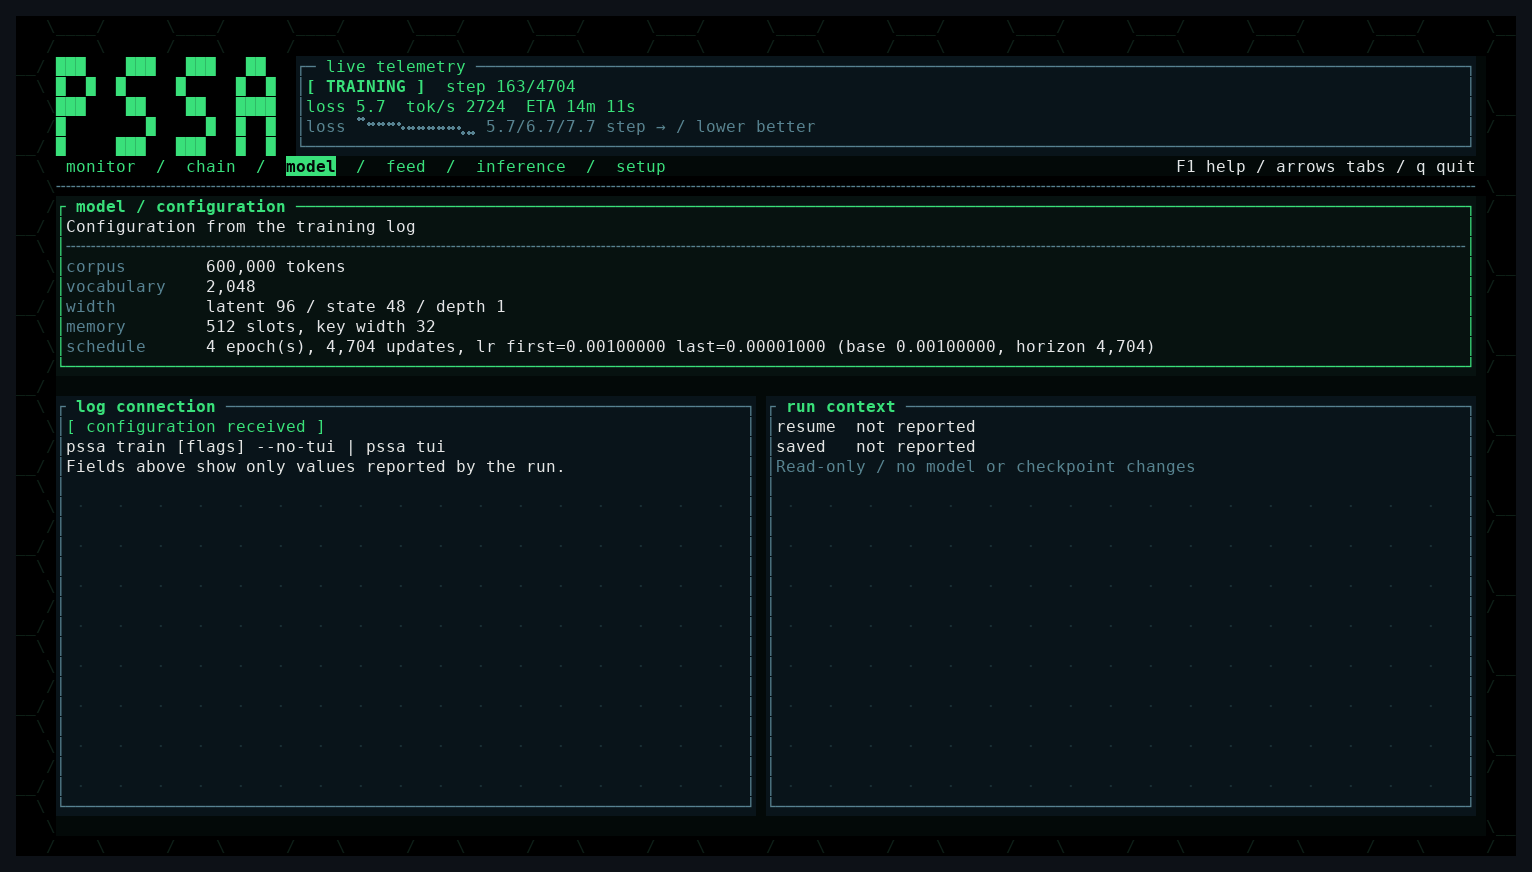
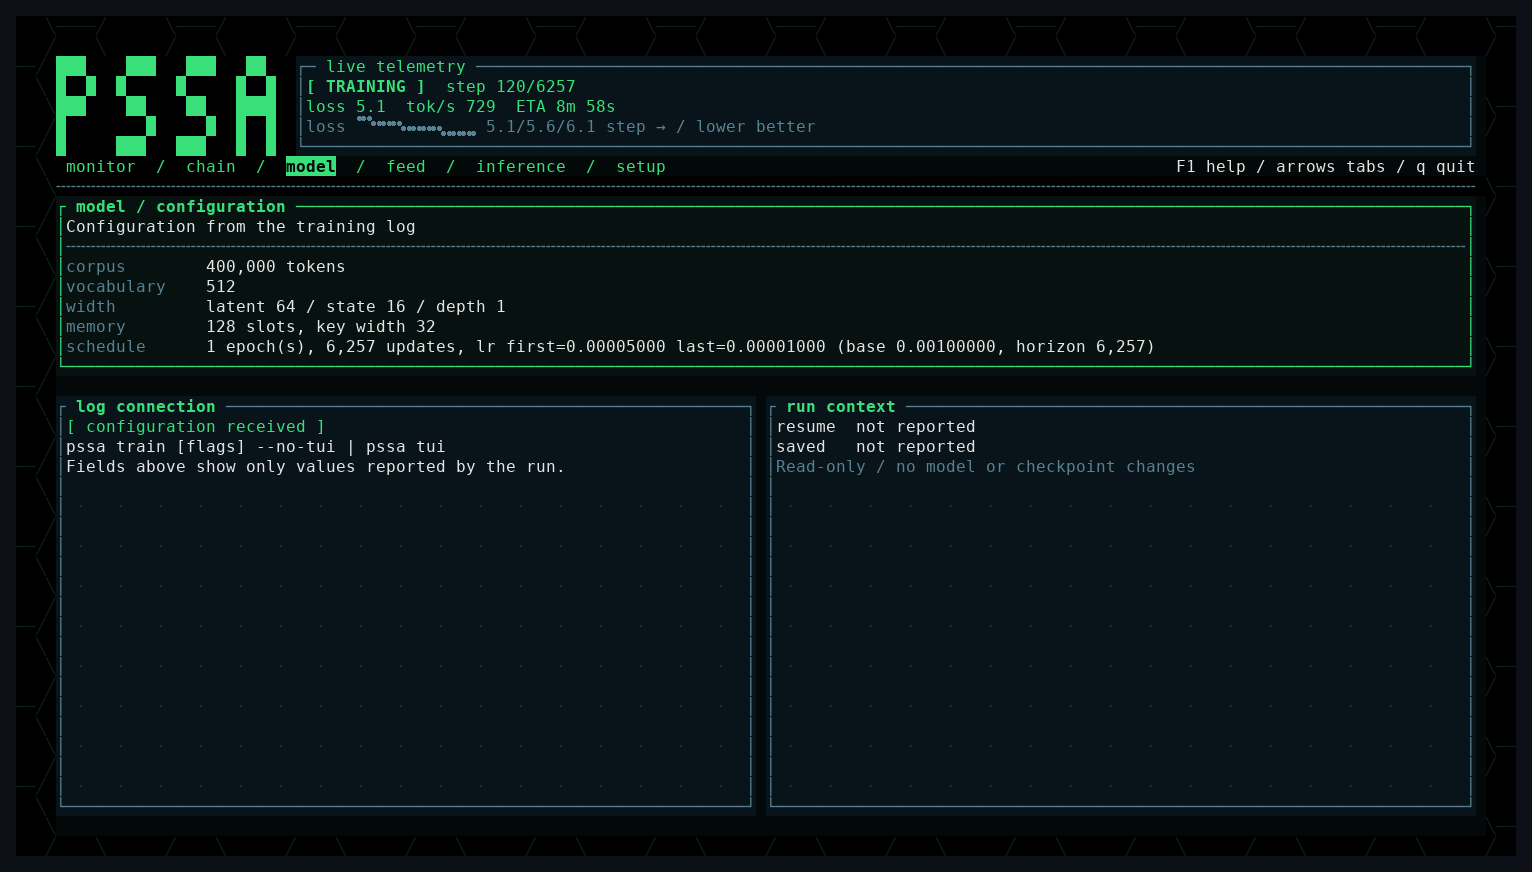
Refresh TUI screenshots for dreaming
Recaptured from the dream-tui build during a live CPU run with --dream-every 10: monitor (DREAMING status and dream metrics), memory (aspect-corrected Poincare disk), key overlay, model, setup training page with the six dream fields, inference chat, CLI generate, and the demo GIF.

diff --git a/README.md b/README.md
@@ -298,7 +298,7 @@ colors each token by the model's confidence.
 loops, schedule, backend). It shows the exact equivalent CLI command at the
 bottom, so you can copy it into a script.
 
-![Setup tab: new-run wizard with the equivalent CLI command](docs/img/tui-setup.png)
+![Setup tab: training page with the dreaming controls and the equivalent CLI command](docs/img/tui-setup.png)
 
 ### Dreaming
 
